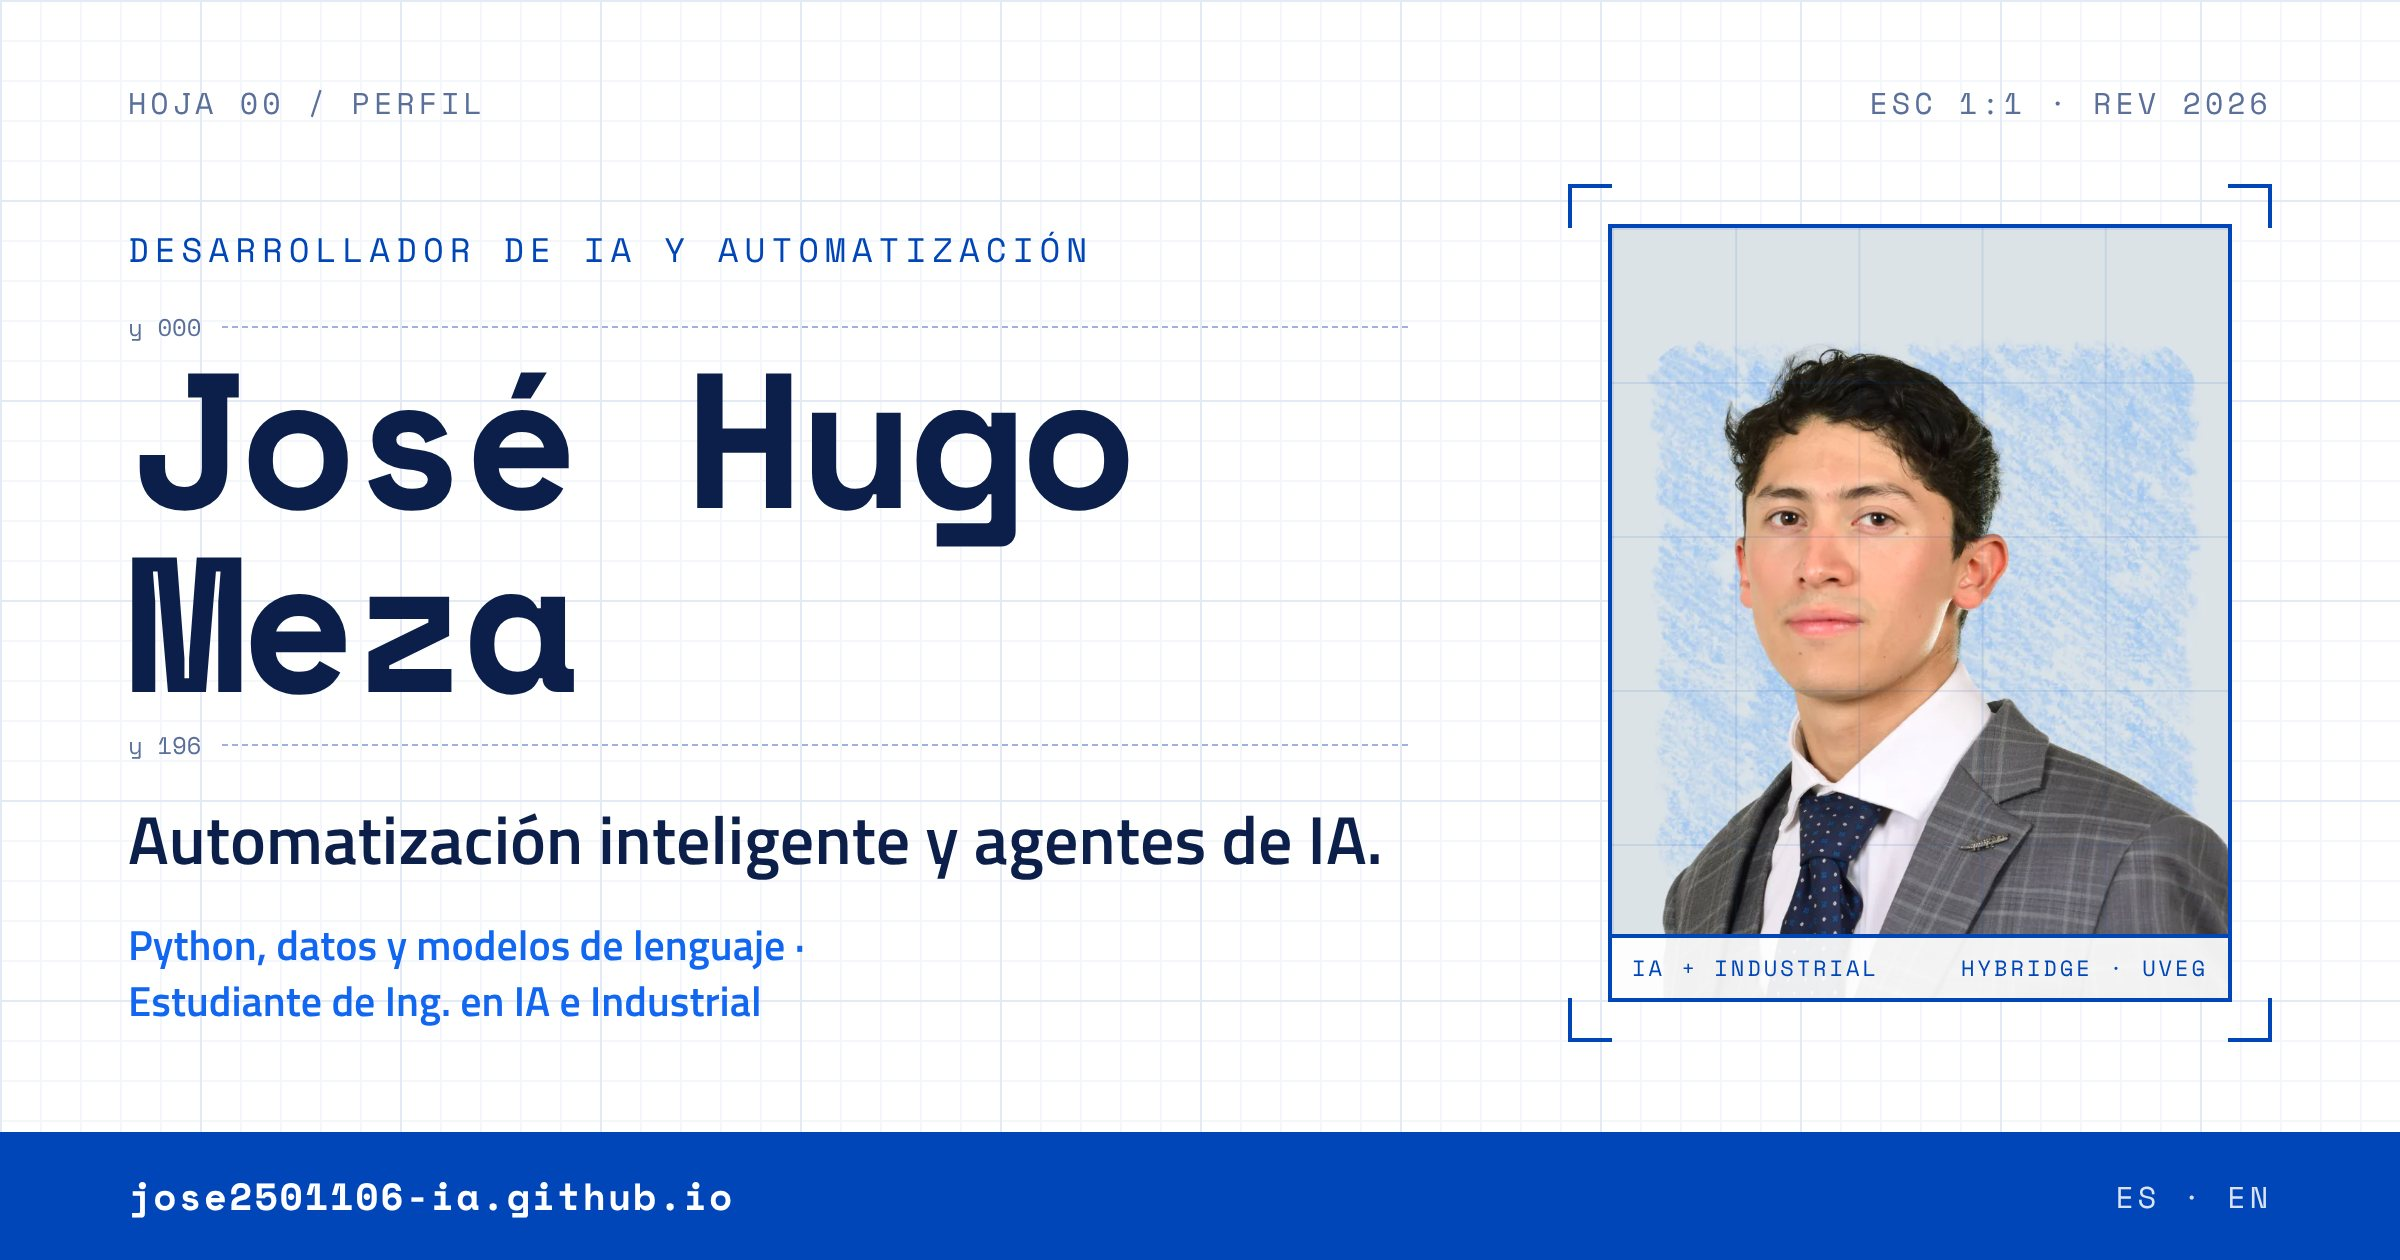
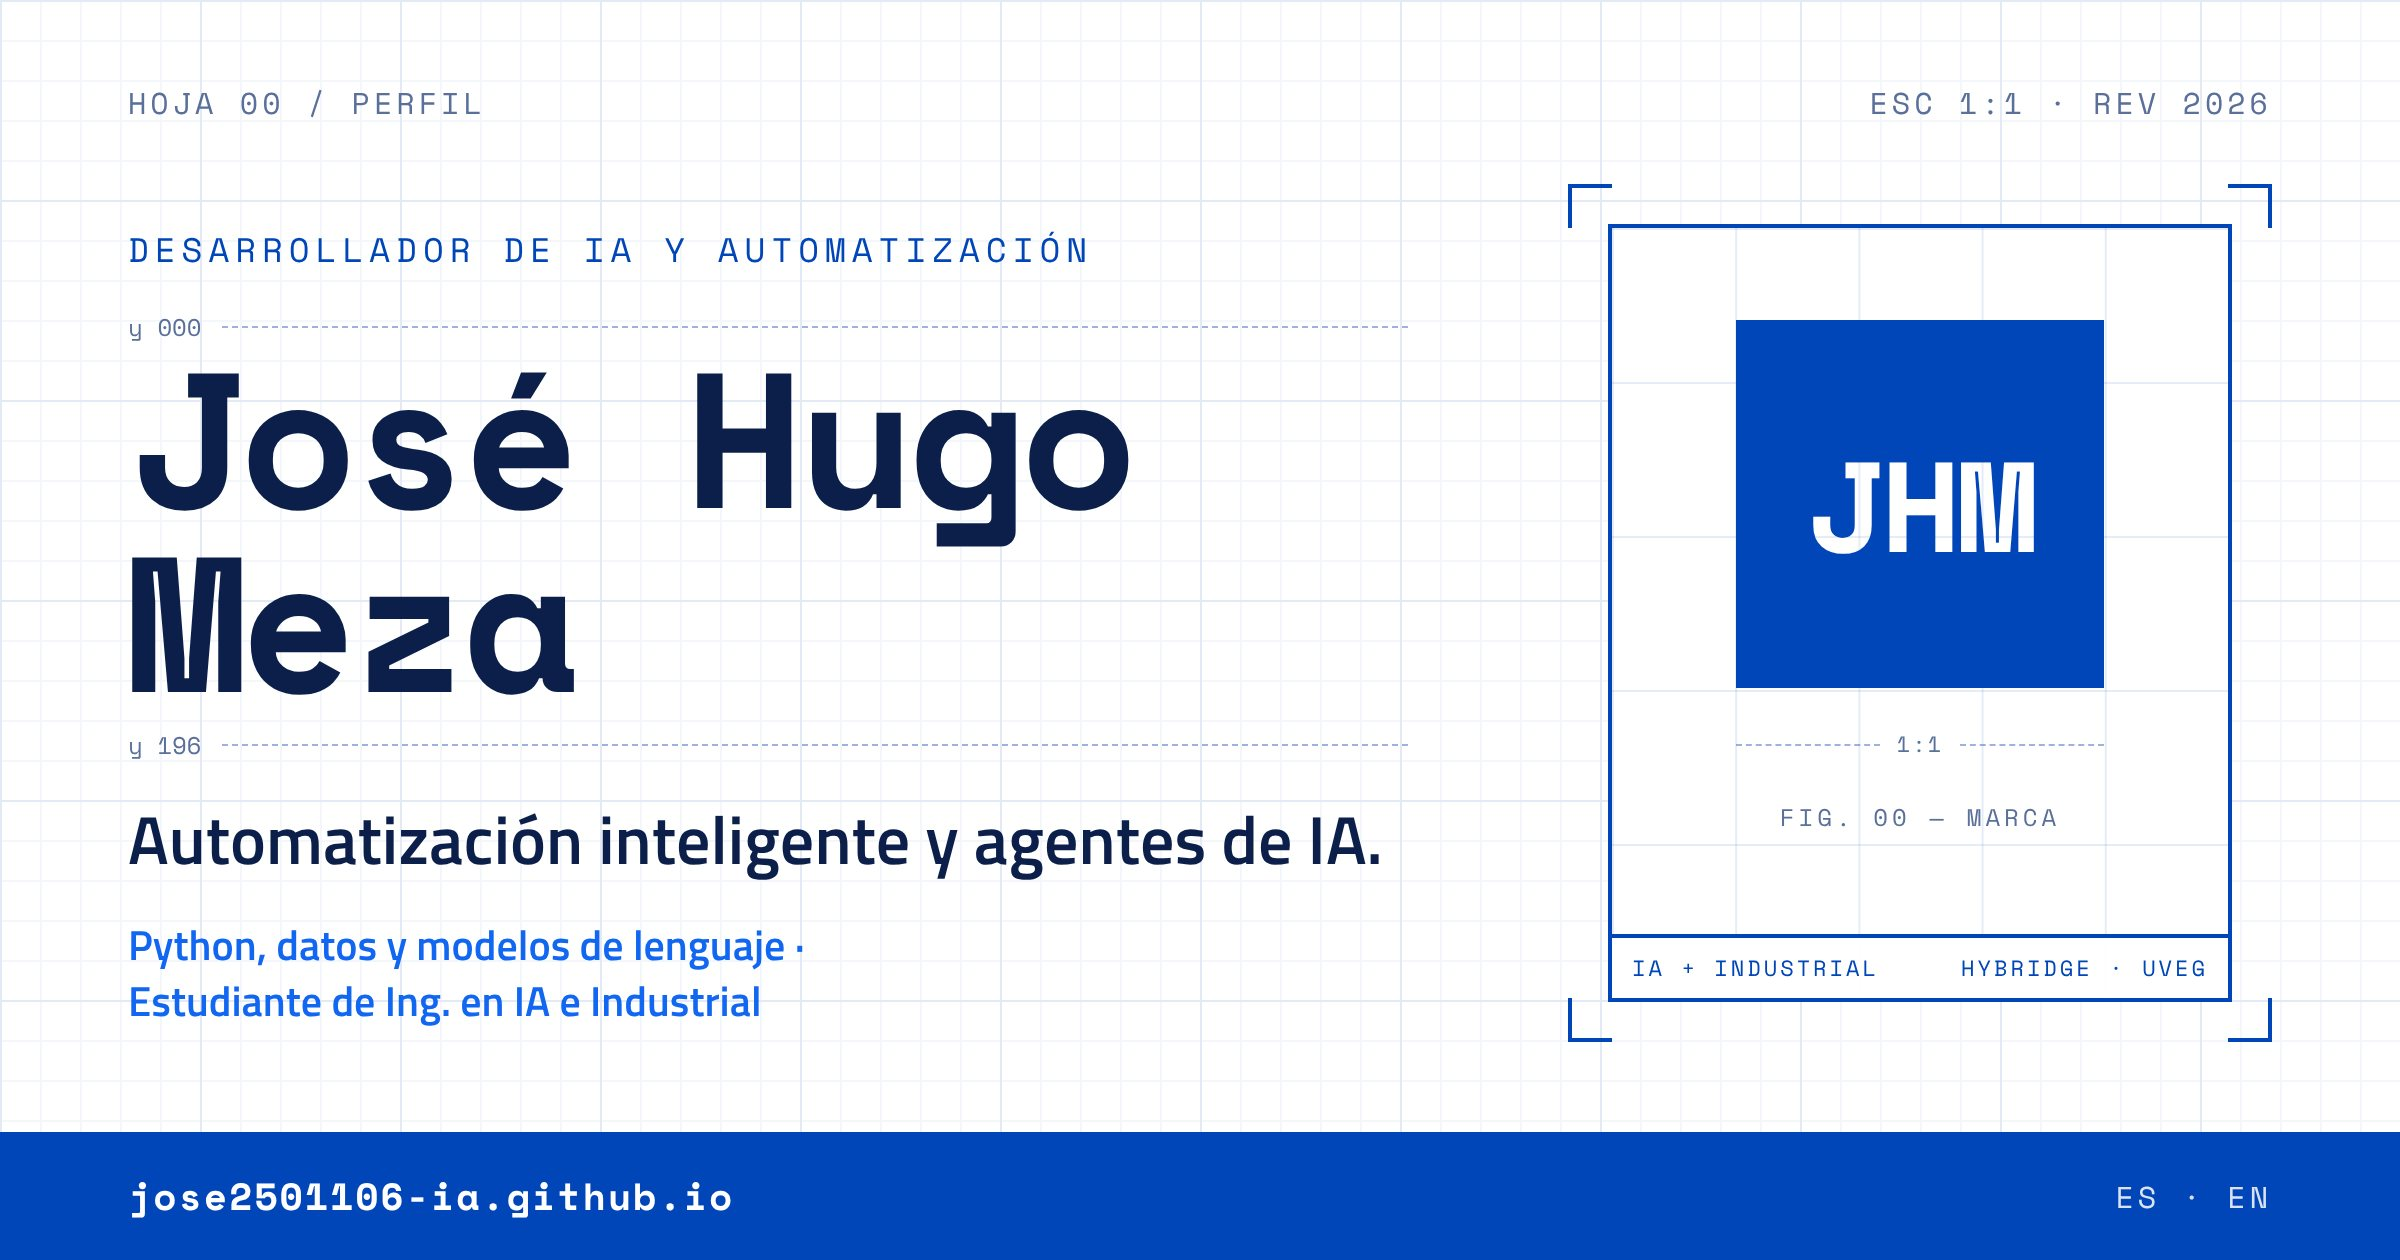
README: el encabezado lleva la marca JHM en lugar de la foto
Tu foto ya aparece en el avatar de GitHub; en el encabezado ahora va la
marca JHM dentro del mismo marco de plano, en versión clara y oscura.

Claude-Session: https://claude.ai/code/session_01JVx4WVHgHNUwPfAfqkxhoB

Changed region(s): [[0.6562, 0.1548, 0.9375, 0.7429]]

diff --git a/scripts/generar_readme.py b/scripts/generar_readme.py
@@ -7,7 +7,8 @@ Uso:
 Salida: README.md, assets/banner-claro.jpg y assets/banner-oscuro.jpg.
 Requiere: jinja2, pyyaml, pillow y playwright con Chromium (ver scripts/requisitos.txt).
 
-Del portafolio solo se leen data/perfil.yml, las fuentes y el retrato. Nada se
+Del portafolio solo se leen data/perfil.yml y las fuentes. El retrato no va en el
+encabezado porque tu foto ya está en el avatar de GitHub. Nada se
 publica si no está en perfil.yml, y el README no depende de servicios externos:
 la única imagen remota es la serpiente, que genera el workflow de este mismo repo.
 """
@@ -62,7 +63,7 @@ async def generar_banners(s, portafolio):
                     tema=tema, base=portafolio.as_uri() + "/", anio=s["sitio"]["anio"],
                     hoja=t(s["ui"]["hoja"]), escala=t(s["ui"]["escala"]), kicker=t(s["portada"]["linea_superior"]),
                     nombre=s["sitio"]["nombre_h1"], sub=t(s["portada"]["subtitulo"]), bajada=t(s["portada"]["bajada"]),
-                    pie_izq=t(s["portada"]["retrato"]["pie_izq"]), pie_der=t(s["portada"]["retrato"]["pie_der"]),
+                    pie_izq=t(s["portada"]["retrato"]["pie_izq"]), pie_der=t(s["portada"]["retrato"]["pie_der"]), marca=s["sitio"]["marca"],
                     dominio=s["sitio"]["url"].removeprefix("https://").rstrip("/"))
                 archivo = tmp / f"banner-{tema}.html"
                 archivo.write_text(html, encoding="utf-8")
@@ -81,7 +82,7 @@ async def generar_banners(s, portafolio):
 def main():
     parser = argparse.ArgumentParser(description=__doc__.splitlines()[0])
     parser.add_argument("--portafolio", type=pathlib.Path, default=RAIZ.parent / "jose2501106-ia.github.io",
-                        help="carpeta del repo del portafolio (de ahí se leen perfil.yml, fuentes y retrato)")
+                        help="carpeta del repo del portafolio (de ahí se leen perfil.yml y las fuentes)")
     parser.add_argument("--solo-texto", action="store_true", help="regenera README.md sin volver a dibujar los encabezados")
     args = parser.parse_args()
     portafolio = args.portafolio.resolve()
